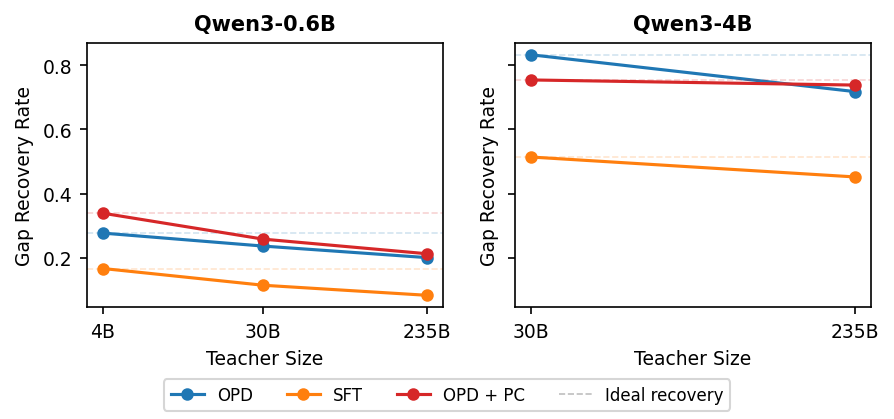
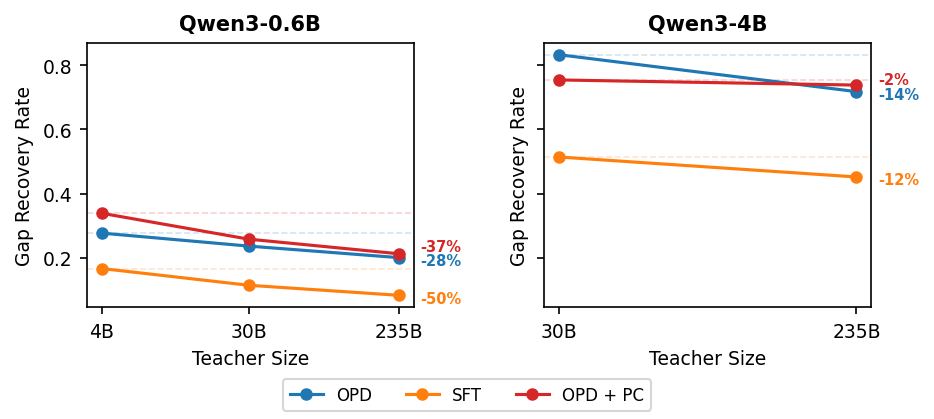
Update plots and captions

diff --git a/sections/experiments.tex b/sections/experiments.tex
@@ -1,18 +1,18 @@
 \chapter{Experiments}
 
-\section{Scaling the Teacher}
+\section{Using OPD and Privileged Context}
 
 \begin{figure}
     \centering
     \includegraphics[width=0.9\linewidth]{figures/teacher_scaling_aime_top1.png}
-    \caption{Caption}
+    \caption{AIME scores comparing an off-policy distillation method (SFT) with OPD distillation methods. The plots clearly show that using OPD results in better performance for both students regardless the teacher size. Furthermore, performance degrades more for SFT compared to OPD + PC when the teacher size increases, but this effect is seen more clearly in Figure~\ref{fig: aime_gap_scaling}.}
     \label{fig: aime_score_scaling}
 \end{figure}
 
 \begin{figure}
     \centering
     \includegraphics[width=0.9\linewidth]{figures/teacher_scaling_gap_recovery.png}
-    \caption{Caption}
+    \caption{Figure showing the gap recovery rate for all student-teacher combinations. The performance of the 0.6B degrades as we increase the teacher size and the decline is more pronounced for SFT followed by OPD with privileged context. Conversely, the privileged context helps to mitigate the decline for the 4B student and is the method that has the best performance when using the 235B teacher.}
     \label{fig: aime_gap_scaling}
 \end{figure}
 
@@ -20,27 +20,107 @@
 
 \begin{figure}
     \centering
-    \includegraphics[width=0.9\linewidth]{figures/teacher_scaling_gap_recovery_top_k.png}
-    \caption{Caption}
-    \label{fig: top-k_gap_scaling}
+    \includegraphics[width=0.9\linewidth]{figures/best_aime_vs_top_k.png}
+    \caption{Effect of increasing the top-k log probabilities. The 0.6B benefits from increasing K for the smallest teacher, but its performance degrades when using more logprobs from the 235B teacher. These results suggest that the 0.6B student cannot capture the increasing complexity of the large teacher but benefits from more details from a teacher within its reach. For the 4B student, scaling K does not have a positive impact since its performance remains constant or decreases for all teachers.}
+    \label{fig: top-k_effect}
 \end{figure}
 
 
+\begin{figure}
+    \centering
+    \begin{minipage}[t]{0.48\textwidth}
+\begin{tcblisting}{
+    enhanced,
+    listing only,
+    title={Student Scoring Context},
+    fonttitle=\bfseries,
+    coltitle=white,
+    colback=blue!2,
+    colframe=blue!55!black,
+    boxrule=0.6pt,
+    arc=1.5mm,
+    left=2mm,
+    right=2mm,
+    top=1.5mm,
+    bottom=1.5mm,
+    equal height group=scoringctx,
+    listing options={
+        basicstyle=\ttfamily\scriptsize,
+        breaklines=true,
+        columns=fullflexible,
+        keepspaces=true,
+        showstringspaces=false,
+        escapeinside={(*@}{@*)}
+    }
+}
+<|im_start|>user
+Evaluate the limit: $$\lim_{x\to 0}x \left[ \frac{a}{x}\right]$$ for $a>0$.
+<|im_end|>
+<|im_start|>assistant
+<think>
+</think>
+We are given the limit:
+$$ \lim_{x \to 0^+} x \left[ \frac{a}{x} \right] $$
+for $ a > 0 $.
+---
+### Step 1: Simplify the expression ...
+\end{tcblisting}
+\end{minipage}%
+\hfill
+\begin{minipage}[t]{0.48\textwidth}
+\begin{tcblisting}{
+    enhanced,
+    listing only,
+    title={Teacher Scoring Context},
+    fonttitle=\bfseries,
+    coltitle=white,
+    colback=green!2,
+    colframe=green!45!black,
+    boxrule=0.6pt,
+    arc=1.5mm,
+    left=2mm,
+    right=2mm,
+    top=1.5mm,
+    bottom=1.5mm,
+    equal height group=scoringctx,
+    listing options={
+        basicstyle=\ttfamily\scriptsize,
+        breaklines=true,
+        columns=fullflexible,
+        keepspaces=true,
+        showstringspaces=false,
+        escapeinside={(*@}{@*)}
+    }
+}
+<|im_start|>user
+Evaluate the limit: $$\lim_{x\to 0}x \left[ \frac{a}{x}\right]$$ for $a>0$.
+
+(*@{\bfseries\color{blue!70!black} Your logits are being used to train a 4B model}@*)
+
+<|im_end|>
+<|im_start|>assistant
+<think>
+</think>
+We are given the limit:
+$$ \lim_{x \to 0^+} x \left[ \frac{a}{x} \right] $$
+for $ a > 0 $.
+---
+### Step 1: Simplify the expression ...
+\end{tcblisting}
+\end{minipage}
+    \caption{Example showing the difference between $\pi_\theta(\cdot \mid x, y_{<n})$ (Student Scoring Context) and $\pi_T(\cdot \mid x, c, y_{<n})$ (Teacher Scoring Context). The privileged context is \emph{Your logits are being used to train a 4B model} we add to the user turn the teacher sees when generating the logits, and it is the only difference between the text scored by the student and teacher policies.}
+    \label{fig: pc_example}
+\end{figure}
 
 \section{Sample Efficiency}
 
-\begin{figure}
-    \centering
-    \includegraphics[width=0.9\linewidth]{figures/learning_curves_aime_qwen3_0.6b.png}
-    \caption{Caption}
-    \label{fig: pc_0.6B_learning_curve}
-\end{figure}
+\section{Catastrophic Forgetting}
 
 \begin{figure}
     \centering
-    \includegraphics[width=0.9\linewidth]{figures/learning_curves_aime_qwen3_4b.png}
-    \caption{Caption}
-    \label{fig: pc_4B_learning_curve}
+    \includegraphics[width=0.9\linewidth]{figures/teacher_scaling_gpqa_top1.png}
+    \caption{Scores for GPQA for all students while training targeting math reasoning skills. The plots show how the 0.6B student suffers from catastrophic forgetting for the three methods, but also how SFT is the method that degrades performance the most. For the 4B student, all methods preserve the GPQA performance and even marginally improve it. These results show how the main driver in catastrophic forgetting is model capacity, and that on-policy methods are better to mitigate performance degradation.}
+    \label{fig: gpqa_forgetting}
 \end{figure}
 
 \section{Using TAID with On-Policy Rollouts and RKL}
@@ -66,106 +146,7 @@ Bucketed RKL exposes more of the teacher distribution and works best for the 4B 
 
 \section{Privileged context is useful but not a general solution}
 
-\begin{tcolorbox}[
-    enhanced,
-    breakable,
-    colback=gray!3,
-    colframe=black!60,
-    coltitle=white,
-    title={Teacher and student contexts for log-probability scoring},
-    fonttitle=\bfseries,
-    boxrule=0.6pt,
-    arc=1.5mm,
-    left=2mm,
-    right=2mm,
-    top=1.5mm,
-    bottom=1.5mm
-]
-For privileged-context distillation, the same completion is scored by both
-models, but the conditioning context differs. The teacher is evaluated as
-$\pi_T(\cdot \mid x, c, y_{<n})$: the user turn contains the original prompt
-plus the privileged context (PC), and the assistant turn contains the
-completion prefix. The student is evaluated as
-$\pi_\theta(\cdot \mid x, y_{<n})$: it sees the original prompt and the same
-completion prefix, but never the PC.
-\end{tcolorbox}
 
-\noindent
-\begin{minipage}[t]{0.48\textwidth}
-\begin{tcblisting}{
-    enhanced,
-    listing only,
-    title={Teacher scoring context},
-    fonttitle=\bfseries,
-    coltitle=white,
-    colback=blue!2,
-    colframe=blue!55!black,
-    boxrule=0.6pt,
-    arc=1.5mm,
-    left=2mm,
-    right=2mm,
-    top=1.5mm,
-    bottom=1.5mm,
-    listing options={
-        basicstyle=\ttfamily\scriptsize,
-        breaklines=true,
-        columns=fullflexible,
-        keepspaces=true,
-        showstringspaces=false
-    }
-}
-<|im_start|>user
-Evaluate the limit: $$\lim_{x\to 0}x \left[ \frac{a}{x}\right]$$ for $a>0$.
-
-Privileged context: Your logits are being used to train a 4B model
-<|im_end|>
-<|im_start|>assistant
-<think>
-</think>
-We are given the limit:
-$$ \lim_{x \to 0^+} x \left[ \frac{a}{x} \right] $$
-for $ a > 0 $.
----
-### Step 1: Simplify the expression ...
-\end{tcblisting}
-\end{minipage}%
-\hfill
-\begin{minipage}[t]{0.48\textwidth}
-\begin{tcblisting}{
-    enhanced,
-    listing only,
-    title={Student scoring context},
-    fonttitle=\bfseries,
-    coltitle=white,
-    colback=green!2,
-    colframe=green!45!black,
-    boxrule=0.6pt,
-    arc=1.5mm,
-    left=2mm,
-    right=2mm,
-    top=1.5mm,
-    bottom=1.5mm,
-    listing options={
-        basicstyle=\ttfamily\scriptsize,
-        breaklines=true,
-        columns=fullflexible,
-        keepspaces=true,
-        showstringspaces=false
-    }
-}
-<|im_start|>user
-Evaluate the limit: $$\lim_{x\to 0}x \left[ \frac{a}{x}\right]$$ for $a>0$.
-<|im_end|>
-<|im_start|>assistant
-<think>
-</think>
-We are given the limit:
-$$ \lim_{x \to 0^+} x \left[ \frac{a}{x} \right] $$
-for $ a > 0 $.
----
-### Step 1: Simplify the expression ...
-\end{tcblisting}
-\end{minipage}
 
 PC can improve top-1 OPD for the tiny student and can preserve GPQA in some settings, but PC+RKL does not currently improve the main AIME results. Therefore PC should be framed as a conditional teacher-side aid, not the core solution.
 